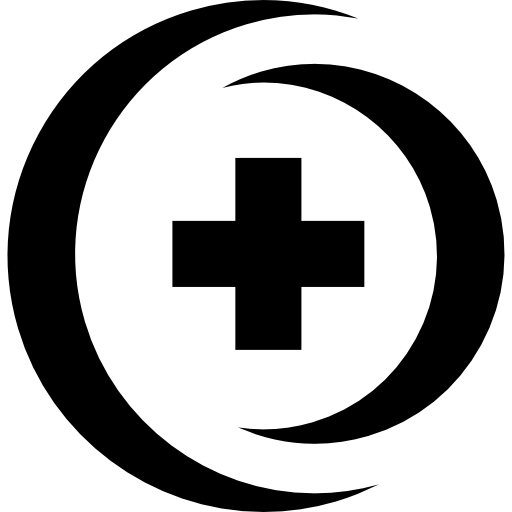
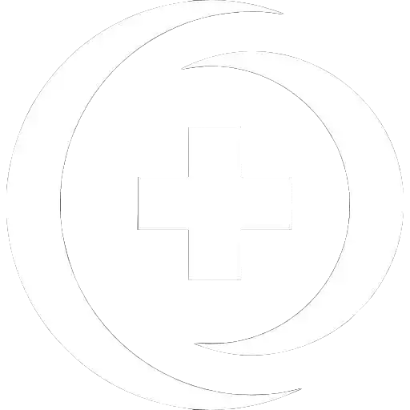
alterações no cabeçalho
alterei a cor das letras para branco

diff --git a/templates/template.html b/templates/template.html
@@ -18,7 +18,7 @@
       <img src="{{ url_for('static', filename='img/cruz.png' )}}" />
     </a>
     <a href="{{ url_for('index') }}" class="titulo">
-      <h1>Vaccine News Daily</h1>
+      <h1 class="titulo_principal">SUS+ Conecta</h1>
     </a>
     <form id="search-form" action="{{ url_for('pesquisar') }}" method="post">
       <input type="search" id="search-input" name="search-input" placeholder="Pesquisar...">
@@ -27,7 +27,7 @@
     </form>
 
     {% if not g.logado %}
-    <a class="img_login"><img src="{{ url_for('static', filename='img/login.com' )}}" alt=""></a>
+    <a class="img_login"><img src="{{ url_for('static', filename='img/login1.png' )}}" alt=""></a>
     <div id="login-form" class="login-form">
       <form action="{{ url_for('autenticar') }}" method="post">
         <label for="username">Usuário:</label><br>

diff --git a/static/css/menu.css b/static/css/menu.css
@@ -44,7 +44,7 @@ input[type="checkbox"]:checked ~nav{
 }
 
 ul{
-    top: 100px;
+    top: 110px;
     position: absolute;
     width: 100%;
 }
@@ -69,7 +69,7 @@ ul{
     padding: 15px;
     position: absolute;
     z-index: 5;
-    top: 60px;
+    top: 65px;
     position: fixed;
     cursor: pointer;
 }

diff --git a/static/css/estilo.css b/static/css/estilo.css
@@ -38,6 +38,11 @@ header {
   font-size: 1.5rem;
 }
 
+.titulo_principal{
+  margin-left: -30px;
+  margin-top: -4px;
+  color: #FFF;
+}
 
 .titulo{
   position: absolute;

diff --git a/vaccine-news.py b/vaccine-news.py
@@ -32,7 +32,7 @@ def before_request():
 
 @app.route("/")
 def index():
-    return render_template("index.html", titulo="Vaccine News | Home")
+    return render_template("index.html", titulo="SUS+ Conecta | Home")
 
 
 @app.route("/pesquisar", methods=["POST"])
